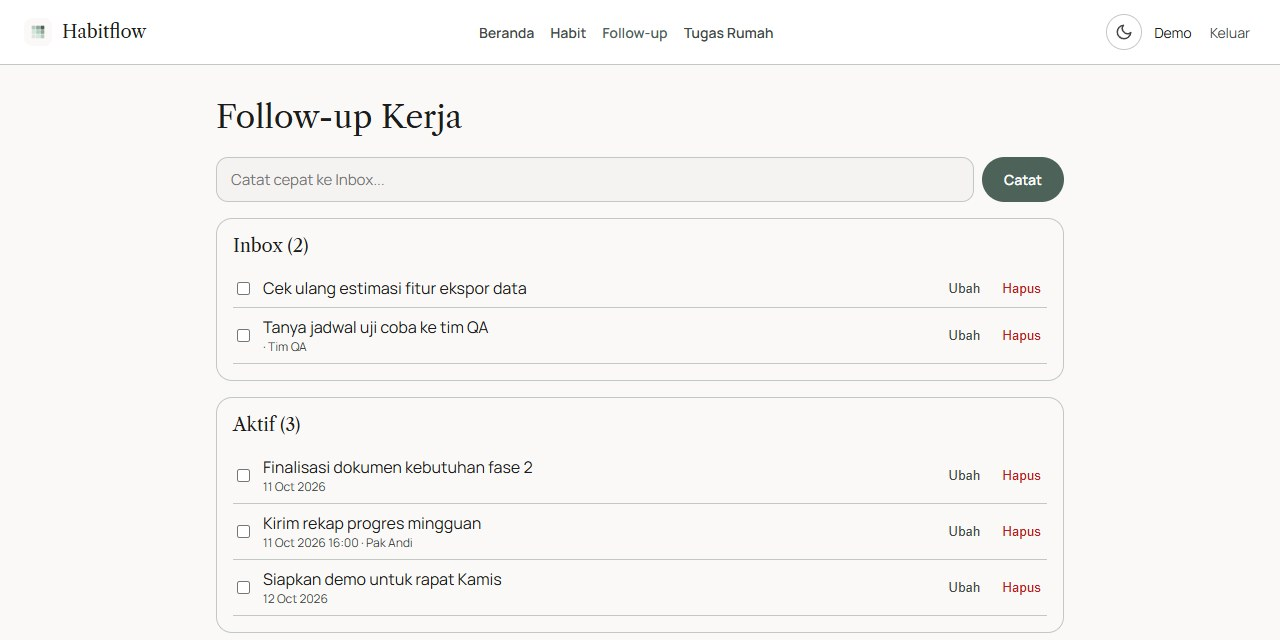
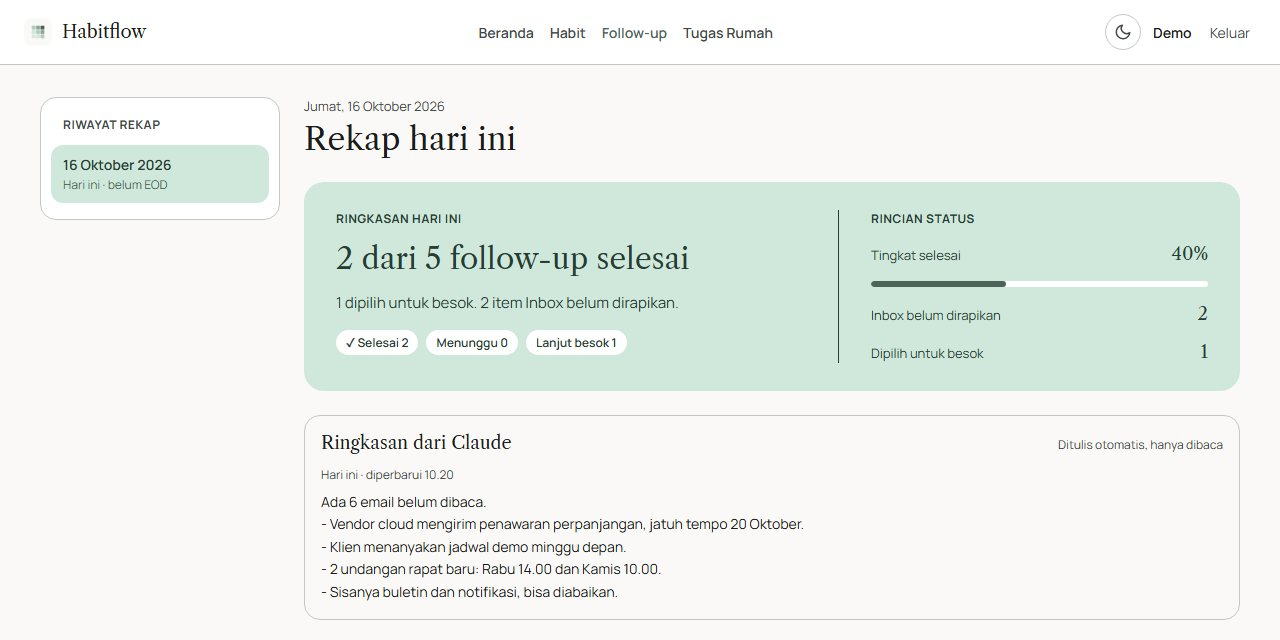
Karya Habitflow: tangkapan layar web terbaru dan fitur baru
Enam tangkapan layar web (Beranda, Habit, Kontribusi, Rekap kerja, Kesehatan,
Tugas Rumah) dari data contoh menggantikan dua gambar lama. Label jadwal dan
kesehatan kini "web hanya baca", ditambah kartu Rekap harian dan Ringkasan
dari Claude, serta teks status disesuaikan.

diff --git a/resources/views/karya/habitflow.blade.php b/resources/views/karya/habitflow.blade.php
@@ -59,10 +59,10 @@
             'body' => 'Tambah, ubah, dan tandai habit wajib sesuai hidup Anda. Ada level harian, streak, dan heatmap kontribusi.',
         ],
         [
-            'variant' => 'plain', 'col' => 'md:col-span-4', 'platform' => 'Android',
+            'variant' => 'plain', 'col' => 'md:col-span-4', 'platform' => 'Android, web hanya baca',
             'title' => 'Jadwal harian',
             'tagline' => 'Susun blok waktu sendiri.',
-            'body' => 'Patokannya jam tetap atau waktu sholat. Tiap blok punya tingkat pengingat sendiri, dari notifikasi senyap sampai alarm.',
+            'body' => 'Patokannya jam tetap atau waktu sholat. Tiap blok punya tingkat pengingat sendiri, dari notifikasi senyap sampai alarm. Di web, blok yang sedang berjalan dan berikutnya tampil di Beranda.',
         ],
         [
             'variant' => 'plain', 'col' => 'md:col-span-4', 'platform' => 'Android',
@@ -71,16 +71,28 @@
             'body' => 'Hanya muncul di jam kerja yang Anda tentukan, dan berhenti sendiri kalau diabaikan.',
         ],
         [
-            'variant' => 'plain', 'col' => 'md:col-span-6', 'platform' => 'Android',
+            'variant' => 'plain', 'col' => 'md:col-span-6', 'platform' => 'Android, web hanya baca',
             'title' => 'Kesehatan',
             'tagline' => 'Angka sebagai informasi, bukan diagnosis.',
-            'body' => 'Langkah dari Health Connect, berat badan, dan tensi, lengkap dengan kategorinya.',
+            'body' => 'Langkah dari Health Connect, berat badan, dan tensi, lengkap dengan kategorinya. Dari angka itu app menyarankan satu fokus untuk hari ini, dan grafiknya bisa dilihat di web.',
         ],
         [
             'variant' => 'plain', 'col' => 'md:col-span-6', 'platform' => 'Android',
             'title' => 'Kalender dan acara rutin',
             'tagline' => 'Satu agenda, tanpa notifikasi ganda.',
             'body' => 'Acara Habitflow dan kalender HP tampil bersama. Hanya acara Habitflow yang diingatkan 15 menit sebelumnya.',
+        ],
+        [
+            'variant' => 'plain', 'col' => 'md:col-span-6', 'platform' => 'Android dan web',
+            'title' => 'Rekap harian dan catatan EOD',
+            'tagline' => 'Hari kerja ditutup dengan angka, bukan perasaan.',
+            'body' => 'Web menampilkan tingkat selesai, rencana besok, dan catatan EOD yang sinkron dengan HP. Kalau dua perangkat menulis catatan berbeda, keduanya dipertahankan.',
+        ],
+        [
+            'variant' => 'plain', 'col' => 'md:col-span-6', 'platform' => 'Android dan web',
+            'title' => 'Ringkasan dari Claude',
+            'tagline' => 'Email pagi dirangkum sebelum kerja dimulai.',
+            'body' => 'Tiap pagi Claude merangkum email yang belum dibaca lalu menuliskannya ke Habitflow, sebagai kartu baca-saja di halaman Kerja. Saat ini baru saya pakai sendiri.',
         ],
     ];
 
@@ -252,7 +264,7 @@
             <div class="space-y-3 max-w-xl">
                 <span class="block font-manrope text-label-caps uppercase text-on-primary-container">Status</span>
                 <h2 class="font-serif-display text-headline-md text-on-surface">Dikembangkan aktif</h2>
-                <p class="font-manrope text-body-md text-on-surface-variant">Versi web sudah bisa dibuka dengan email atau akun Google. Aplikasi Android belum dirilis ke Play Store. Jadwal harian, kesehatan, dan kalender sedang menyusul ke web.</p>
+                <p class="font-manrope text-body-md text-on-surface-variant">Versi web sudah bisa dibuka dengan email atau akun Google. Aplikasi Android belum dirilis ke Play Store. Jadwal dan kesehatan sudah bisa dilihat di web, tetapi disusun dan dicatat dari Android. Kalender masih menyusul ke web.</p>
             </div>
             <a href="{{ $webUrl }}" target="_blank" rel="noopener" class="shrink-0 bg-primary text-on-primary px-8 py-3 rounded font-manrope text-label-caps uppercase hover:bg-on-primary-container transition-colors duration-300 text-center">Buka Habitflow Web &rarr;</a>
         </div>

diff --git a/app/Support/Projects.php b/app/Support/Projects.php
@@ -47,8 +47,12 @@ class Projects
                 // Tangkapan layar versi web. Kosong = barisnya tidak ditampilkan.
                 // Isi dengan ['file' => ..., 'alt' => ..., 'caption' => ...] setelah gambarnya ada di public/images/karya/.
                 'web_screens' => [
-                    ['file' => 'habitflow-web-habit.jpg', 'alt' => 'Halaman Habit di Habitflow web: habit dan to-do hari ini', 'caption' => 'Habit hari ini'],
-                    ['file' => 'habitflow-web-follow-up.jpg', 'alt' => 'Halaman Follow-up Kerja di Habitflow web: Inbox dan Aktif', 'caption' => 'Follow-up kerja'],
+                    ['file' => 'habitflow-web-beranda.jpg', 'alt' => 'Beranda Habitflow web: fokus kesehatan hari ini dan kartu jadwal Sekarang dan Berikutnya', 'caption' => 'Beranda'],
+                    ['file' => 'habitflow-web-habit.jpg', 'alt' => 'Halaman Habit di Habitflow web: kartu habit, to-do, dan streak, lalu daftar habit hari ini', 'caption' => 'Habit hari ini'],
+                    ['file' => 'habitflow-web-kontribusi.jpg', 'alt' => 'Heatmap kontribusi Habitflow web: gabungan 53 minggu dan per habit', 'caption' => 'Kontribusi'],
+                    ['file' => 'habitflow-web-follow-up.jpg', 'alt' => 'Halaman Rekap hari ini di Habitflow web: ringkasan follow-up selesai dan Ringkasan dari Claude', 'caption' => 'Rekap kerja'],
+                    ['file' => 'habitflow-web-kesehatan.jpg', 'alt' => 'Bagian Kesehatan di Habitflow web: grafik berat badan, langkah 7 hari, dan tensi', 'caption' => 'Kesehatan'],
+                    ['file' => 'habitflow-web-tugas-rumah.jpg', 'alt' => 'Halaman Tugas Rumah di Habitflow web: tugas bersama pasangan dengan penanggung jawab', 'caption' => 'Tugas Rumah'],
                 ],
             ],
             'al-kaukaba' => [
